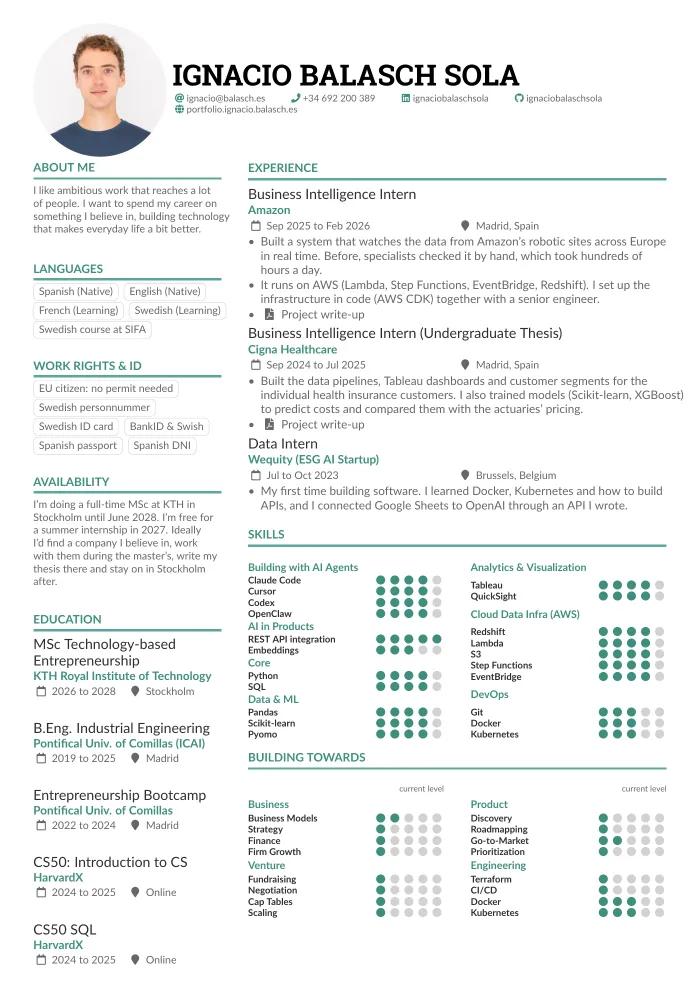
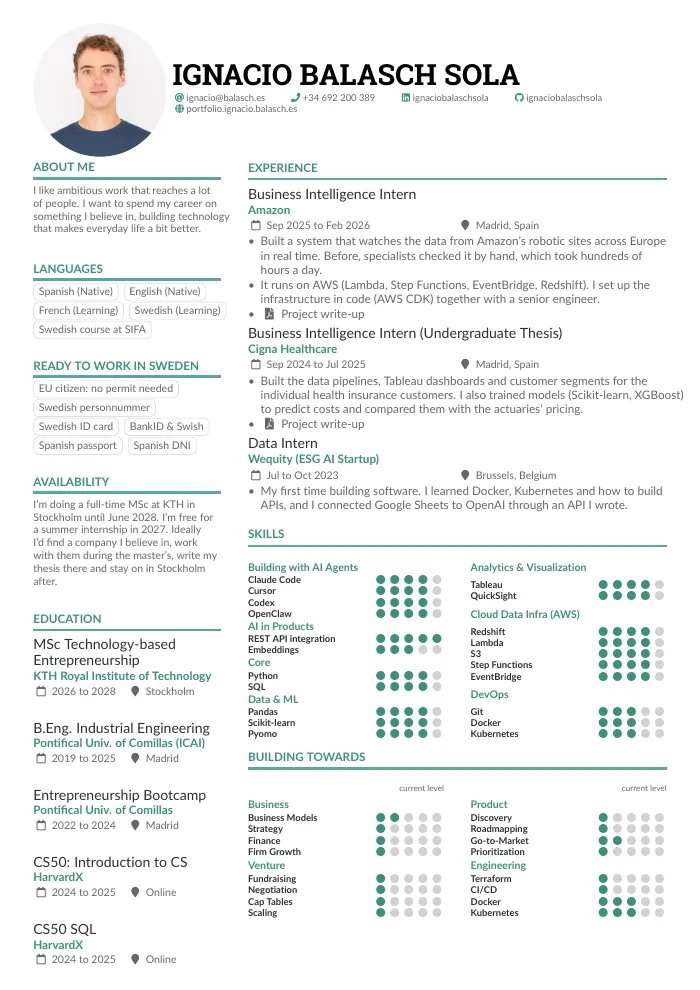
More room above the ID cards; rename them Ready to work in Sweden; CV with the same heading

diff --git a/index.html b/index.html
@@ -74,7 +74,7 @@
 
 <section class="about" aria-labelledby="about-h">
   <h2 id="about-h" class="label">About</h2>
-  <p class="fill">Before the master’s I worked on data projects at Amazon and at Cigna. The write-ups, my CV, three recommendation letters and my right to work in Sweden are&nbsp;below.</p>
+  <p class="fill">Before the master’s I worked on data projects at Amazon and at Cigna. The write-ups, my CV and three recommendation letters are below, and so is why I’m ready to work in&nbsp;Sweden.</p>
 </section>
 </div>
 <div class="run" aria-hidden="true"></div>
@@ -158,37 +158,37 @@
       <p class="ln"><a href="https://www.linkedin.com/in/sara-lumbreras-04889316/" target="_blank" rel="noopener" aria-label="Sara Lumbreras on LinkedIn">LinkedIn</a><a href="https://www.iit.comillas.edu/people/slumbreras" target="_blank" rel="noopener" aria-label="Sara Lumbreras’s website">Website</a><a href="mailto:slumbreras@comillas.edu" aria-label="Email Sara Lumbreras">Email</a></p>
     </div>
 
-    <!-- group 4: work rights & ID. Six plain cards, words only: an employer sees he can be hired in Sweden with no
+    <!-- group 4: ready to work in Sweden. Six plain cards, words only: an employer sees he can be hired in Sweden with no
          paperwork. Never put a document image, scan or any number (personnummer, passport, DNI) here. -->
     <section class="rights" aria-labelledby="rights-h">
-      <h3 id="rights-h" class="label">Work rights &amp; ID</h3>
+      <h3 id="rights-h" class="label">Ready to work in Sweden</h3>
       <ul>
-        <li class="obj idc" style="--x:113px;--y:1356px">
+        <li class="obj idc" style="--x:113px;--y:1616px">
           <svg class="ic" viewBox="0 0 24 24" aria-hidden="true"><rect x="3" y="7.5" width="18" height="12.5" rx="2"/><path d="M8.5 7.5V5.5a1.5 1.5 0 0 1 1.5-1.5h4a1.5 1.5 0 0 1 1.5 1.5v2M3 12.5h18M12 11.5v2"/></svg>
           <span class="mk" aria-hidden="true">EU</span>
           <b>EU citizen</b><span class="sub">Free to work in Sweden. No work permit needed.</span>
         </li>
-        <li class="obj idc" style="--x:542px;--y:1356px">
+        <li class="obj idc" style="--x:542px;--y:1616px">
           <svg class="ic" viewBox="0 0 24 24" aria-hidden="true"><circle cx="12" cy="8" r="4"/><path d="M4 21c0-4.4 3.6-7 8-7s8 2.6 8 7"/></svg>
           <span class="mk" aria-hidden="true">SE</span>
           <b>Swedish personnummer</b><span class="sub">Swedish personal identity number</span>
         </li>
-        <li class="obj idc" style="--x:971px;--y:1356px">
+        <li class="obj idc" style="--x:971px;--y:1616px">
           <svg class="ic" viewBox="0 0 24 24" aria-hidden="true"><rect x="2.5" y="5" width="19" height="14" rx="2"/><circle cx="8" cy="11" r="2"/><path d="M5 16c.6-1.6 1.6-2.3 3-2.3s2.4.7 3 2.3M14 10h4.5M14 13.5h3"/></svg>
           <span class="mk" aria-hidden="true">SE</span>
           <b>Swedish ID card</b><span class="sub">Identity card issued in Sweden</span>
         </li>
-        <li class="obj idc" style="--x:113px;--y:1612px">
+        <li class="obj idc" style="--x:113px;--y:1872px">
           <svg class="ic" viewBox="0 0 24 24" aria-hidden="true"><rect x="6" y="2.5" width="12" height="19" rx="2.5"/><path d="M10.5 18.5h3M9 10.5l2.2 2.2L15.5 8"/></svg>
           <span class="mk" aria-hidden="true">SE</span>
           <b>BankID and Swish</b><span class="sub">Swedish digital ID and payments</span>
         </li>
-        <li class="obj idc" style="--x:542px;--y:1612px">
+        <li class="obj idc" style="--x:542px;--y:1872px">
           <svg class="ic" viewBox="0 0 24 24" aria-hidden="true"><rect x="4.5" y="2.5" width="15" height="19" rx="1.5"/><circle cx="12" cy="10.5" r="3.5"/><path d="M8.5 10.5h7M12 7c1 1 1.4 2.2 1.4 3.5S13 13 12 14M12 7c-1 1-1.4 2.2-1.4 3.5S11 13 12 14M9 17.5h6"/></svg>
           <span class="mk" aria-hidden="true">ES</span>
           <b>Spanish passport and DNI</b><span class="sub">DNI is the Spanish national identity card</span>
         </li>
-        <li class="obj idc" style="--x:971px;--y:1612px">
+        <li class="obj idc" style="--x:971px;--y:1872px">
           <svg class="ic" viewBox="0 0 24 24" aria-hidden="true"><path d="M4 5.5h16v10H11l-4.5 4v-4H4z"/><path d="M8 9.5h8M8 12h5"/></svg>
           <span class="mk" aria-hidden="true">SE</span>
           <b>Learning Swedish</b><span class="sub">SIFA intensive course, City of Stockholm, from October 2026</span>

diff --git a/style.css b/style.css
@@ -166,7 +166,7 @@ button{font:inherit;color:inherit}
   font:400 8.5px/11px "IBM Plex Mono",monospace;color:rgba(0,47,167,.7);text-align:center}
 .pm::after{content:"";position:absolute;left:58px;top:22px;width:62px;height:16px;border-top:1.2px solid rgba(0,47,167,.45);border-bottom:1.2px solid rgba(0,47,167,.45)}
 
-/* work rights & ID: six plain cards the size of a bank card, knolled in the letters' three columns. Words only, on
+/* ready to work in Sweden: six plain cards the size of a bank card, knolled in the letters' three columns. Words only, on
    purpose: no document image and no number ever goes here. Each card: a line icon in his pen (top left), a faint
    country mark (EU / SE / ES, top right, like the envelopes' postmarks), the fact in serif, the plain-words gloss in mono. The fact starts at the same height on every card (not pushed to
    the bottom), so the six titles read as two straight lines whether the gloss below is one line or two. */
@@ -203,7 +203,7 @@ button{font:inherit;color:inherit}
 .board .card .h{font-size:20px}
 .board .letter{grid-column:1/-1;justify-self:center;width:min(356px,100%)}
 .board .letter .to b{white-space:normal}
-.board .rights{grid-column:1/-1;margin-top:24px}   /* clear of the last letter's links, which hang 46px below it */
+.board .rights{grid-column:1/-1;margin-top:120px}   /* clear of the last letter's links, which hang 46px below it */
 .board .rights .label{margin:0 0 16px}
 .board .rights ul{display:grid;grid-template-columns:1fr 1fr;gap:12px}
 .board .idc{width:auto;height:auto;min-height:168px;padding:64px 16px 16px}
@@ -222,9 +222,9 @@ button{font:inherit;color:inherit}
 .js .desk:not(.on) .obj{opacity:0;transform:translateY(22px);transition:opacity .5s ease,transform .8s var(--ease)}
 .js .desk:not(.on) .obj.in{opacity:1;transform:none}
 
-/* ---------- desk (JS, ≥1100px): a 1440×1900 artboard scaled to the width; knolled grid, draggable, springs home ---------- */
-.desk.on{height:calc(1900px * var(--s,1))}
-.desk.on .board{position:absolute;left:var(--ox,0);top:0;display:block;width:1440px;height:1900px;max-width:none;margin:0;padding:0;
+/* ---------- desk (JS, ≥1100px): a 1440×2160 artboard scaled to the width; knolled grid, draggable, springs home ---------- */
+.desk.on{height:calc(2160px * var(--s,1))}
+.desk.on .board{position:absolute;left:var(--ox,0);top:0;display:block;width:1440px;height:2160px;max-width:none;margin:0;padding:0;
   transform:scale(var(--s,1));transform-origin:0 0}
 .desk.on .hint{display:block;position:absolute;right:113px;top:150px}
 .desk.on .obj{position:absolute;left:0;top:0;margin:0;opacity:0;will-change:transform;
@@ -235,7 +235,7 @@ button{font:inherit;color:inherit}
 .desk.on .card{min-height:169px}.desk.on .card .h{font-size:22px}
 .desk.on .letter{width:356px}
 .desk.on .rights,.desk.on .rights ul{display:block;margin:0}
-.desk.on .rights .label{position:absolute;left:113px;top:1300px;margin:0}
+.desk.on .rights .label{position:absolute;left:113px;top:1560px;margin:0}
 .desk.on .idc{width:356px;height:224px;min-height:0;padding:128px 24px 22px}
 .desk.on .idc .ic{left:22px;top:20px;width:30px;height:30px}
 .desk.on .idc .mk{right:20px;top:18px;width:42px;height:42px;font-size:11px}

diff --git a/script.js b/script.js
@@ -3,7 +3,7 @@
                the turn (the poster pins for 140svh while he flips 1 → 4 → 3 → 5 → 6 → 1, a turntable flipbook),
                the name's letters drifting apart and back, words inking in as they cross the reading zone,
                and the desk heading assembling letter by letter
-   2. desk   — the documents lie knolled on a 1440×1900 artboard; drag one and it springs home
+   2. desk   — the documents lie knolled on a 1440×2160 artboard; drag one and it springs home
    3. cue    — the scroll cue fades once the page has moved
    Test-only URL params: ?static=1 shows every final state, nothing pinned or moving;
    ?progress=0..1 scrolls to that point of the turn and holds the hero there (renders); ?pose=5|6|1|4|3 forces a pose. */
@@ -199,7 +199,7 @@
   })();
 
   /* ------------------------------------------------------------ 2. desk */
-  /* ≥1100px with JS: the objects sit at fixed places on a 1440×1900 artboard scaled to the window (a knolled grid:
+  /* ≥1100px with JS: the objects sit at fixed places on a 1440×2160 artboard scaled to the window (a knolled grid:
      CV + photo | the two write-ups | three letters | six work-rights cards). With a mouse, pick one up; on release it
      springs back to its place, so the desk is always composed. A press that moves under 5px is a click and opens the
      PDF, which every document is anyway: a real <a> you can tab to and press Enter on (for a letter, the envelope is
@@ -210,7 +210,7 @@
     const board = document.getElementById('board');
     if (!desk || !board) return;
 
-    const W = 1440, H = 1900, MAX = 1.25;
+    const W = 1440, H = 2160, MAX = 1.25;
     const wide = matchMedia('(min-width:1100px)');
     const fine = matchMedia('(hover:hover) and (pointer:fine)');
     const objs = [...board.querySelectorAll('.obj')];
